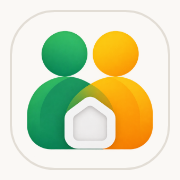
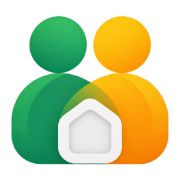
fix(pwa): atualizar icones do pwa para fundo 100% transparente

Changed region(s): [[0.0556, 0.0556, 0.9444, 0.9444], [0.5556, 0.5, 0.6111, 0.5556], [0.4167, 0.5, 0.4444, 0.5278]]

diff --git a/frontend/src/routes/__root.tsx b/frontend/src/routes/__root.tsx
@@ -107,11 +107,11 @@ export const Route = createRootRouteWithContext<{ queryClient: QueryClient }>()(
     ],
     links: [
       { rel: "stylesheet", href: appCss },
-      { rel: "icon", href: "/favicon.svg?v=4", type: "image/svg+xml" },
-      { rel: "icon", href: "/favicon.png?v=4", type: "image/png" },
-      { rel: "shortcut icon", href: "/favicon.ico?v=4" },
-      { rel: "apple-touch-icon", href: "/apple-touch-icon.png?v=4" },
-      { rel: "manifest", href: "/manifest.json?v=4" },
+      { rel: "icon", href: "/favicon.svg?v=5", type: "image/svg+xml" },
+      { rel: "icon", href: "/favicon.png?v=5", type: "image/png" },
+      { rel: "shortcut icon", href: "/favicon.ico?v=5" },
+      { rel: "apple-touch-icon", href: "/apple-touch-icon.png?v=5" },
+      { rel: "manifest", href: "/manifest.json?v=5" },
       { rel: "preconnect", href: "https://fonts.googleapis.com" },
       { rel: "preconnect", href: "https://fonts.gstatic.com", crossOrigin: "anonymous" },
       {
